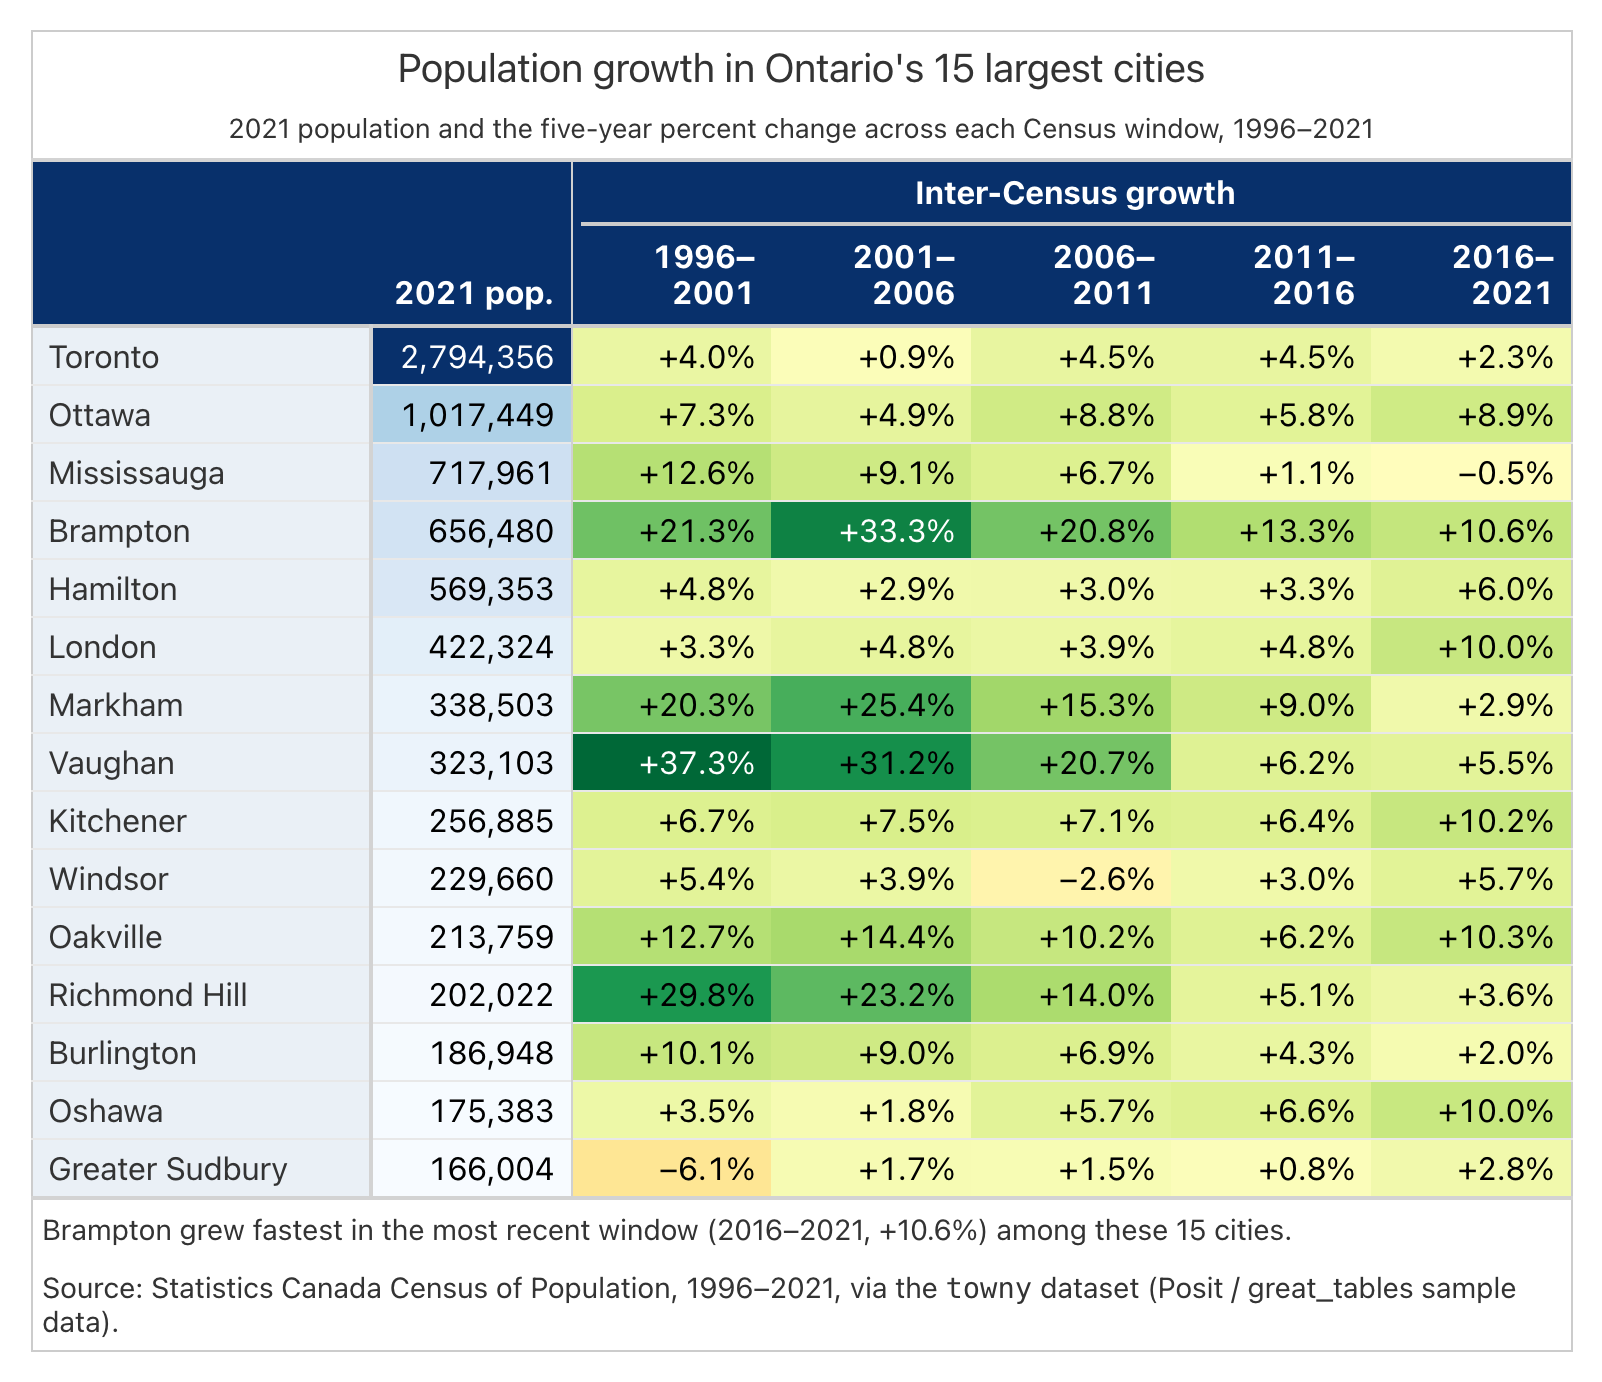
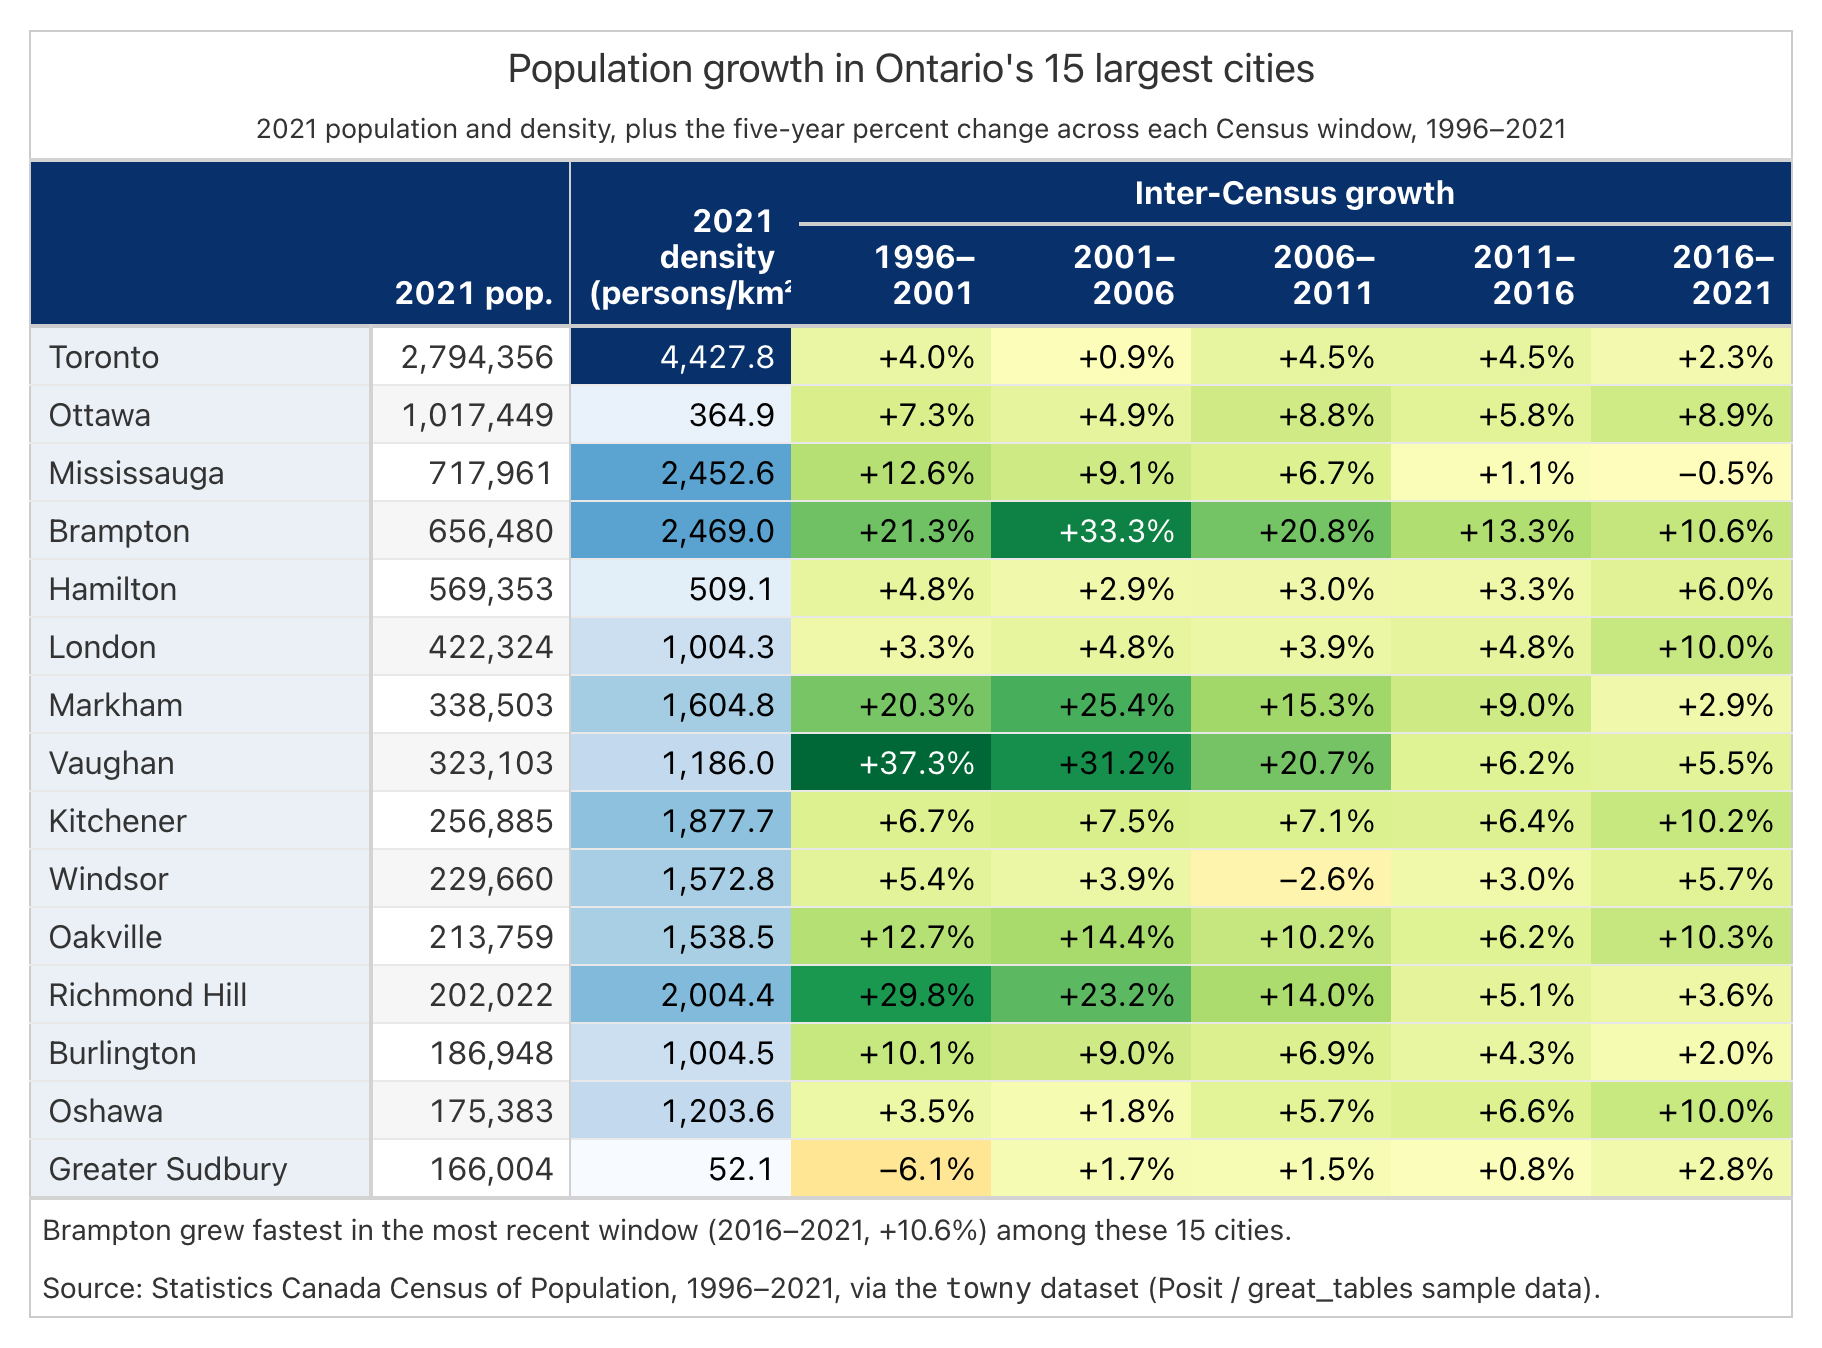
fix(examples): color heatmap by density instead of a skewed raw population
The population-level color fill in heatmap.py had the same defect
scientific.py explicitly cites as its reason to skip Big Color entirely:
a linear domain over a magnitude that spans multiple orders of magnitude
paints nearly every cell nearly the same faint shade. For these 15 rows,
raw population_2021 spans 166K-2.8M with Toronto and Ottawa alone
dominating the top of the range, landing 12 of 15 rows in the bottom 20%
of the Blues ramp.

Switch the colored "level" measure to density_2021 (persons/km^2), which
already exists in the towny dataset and is the same density+percent-change
pairing this skill's own small_color.md cites as the canonical example
for this exact dataset (towny_growth_trends ground truth). Density is
normalized by land area, so it isn't dominated by the same outliers: only
3 of 15 rows land in the bottom 20% of its domain, producing a heatmap
that actually differentiates rows.

Raw 2021 population stays displayed (it still drives the top-15
selection and is useful context) but is now a genuinely plain,
uncolored column. Since it's no longer color-filled, the "no row
striping" rationale (100% of body columns already color-filled) no
longer holds, so striping is turned back on to match every other table
in this skill and give the plain population column a visible stripe.

diff --git a/.claude/skills/great-tables-ci/assets/examples/heatmap/heatmap.py b/.claude/skills/great-tables-ci/assets/examples/heatmap/heatmap.py
@@ -3,8 +3,10 @@
 Data: data/towny.csv  (414 Ontario municipalities; population and
       growth across five Census windows from 1996 to 2021)
 Story: 25 years of growth in Ontario's 15 largest cities — population
-       level and each five-year percent change both color-encoded, as
-       two distinct dimensions of "growth."
+       density and each five-year percent change both color-encoded, as
+       two distinct dimensions of "growth." Raw 2021 population stays a
+       plain column: it drives the top-15 selection and is shown for
+       context, but it is NOT the colored measure (see note below).
 """
 import numpy as np
 import pandas as pd
@@ -23,7 +25,7 @@ change_cols = [
 # reader's ability to scan a small grid; 414 rows is unreadable.
 top = (
     df.nlargest(15, "population_2021")
-      .loc[:, ["name", "population_2021"] + change_cols]
+      .loc[:, ["name", "population_2021", "density_2021"] + change_cols]
       .reset_index(drop=True)
 )
 
@@ -34,11 +36,20 @@ chg_lo = float(np.nanmin(top[change_cols].to_numpy()))
 chg_hi = float(np.nanmax(top[change_cols].to_numpy()))
 abs_max = max(abs(chg_lo), abs(chg_hi))
 
-# Population (a level) and the five window changes (a rate of change) are two
-# genuinely distinct dimensions of "growth" — both earn a fill, the same
-# pairing used for density+percent-change elsewhere in this skill.
-pop_lo = float(top["population_2021"].min())
-pop_hi = float(top["population_2021"].max())
+# Density (a level, normalized by land area) and the five window changes (a
+# rate of change) are two genuinely distinct dimensions of "growth" — both
+# earn a fill, the same density+percent-change pairing used in this skill's
+# towny_growth_trends ground truth. Raw population COUNT is intentionally
+# NOT the colored level here: for these 15 rows it spans 166K-2.8M with
+# Toronto and Ottawa alone occupying the top of that range, so a linear
+# domain over the raw count would land 12 of 15 rows in the bottom 20% of
+# the color ramp — the same "nearly every cell nearly the same faint shade"
+# failure `scientific` cites as its reason to skip Big Color altogether.
+# Density is normalized by land area, so it isn't dominated by the same one
+# or two outliers (only 3 of 15 land in the bottom 20% of its domain) and
+# produces a heatmap that actually differentiates rows.
+dens_lo = float(top["density_2021"].min())
+dens_hi = float(top["density_2021"].max())
 
 fastest_city = top.loc[top["pop_change_2016_2021_pct"].idxmax(), "name"]
 fastest_pct = top["pop_change_2016_2021_pct"].max()
@@ -47,10 +58,11 @@ gt = (
     GT(top, rowname_col="name")
     .tab_header(
         title="Population growth in Ontario's 15 largest cities",
-        subtitle="2021 population and the five-year percent change across each Census window, 1996–2021",
+        subtitle="2021 population and density, plus the five-year percent change across each Census window, 1996–2021",
     )
     .cols_label(
         population_2021="2021 pop.",
+        density_2021=html("2021 density<br>(persons/km²)"),
         pop_change_1996_2001_pct="1996–2001",
         pop_change_2001_2006_pct="2001–2006",
         pop_change_2006_2011_pct="2006–2011",
@@ -59,14 +71,16 @@ gt = (
     )
     .tab_spanner(label="Inter-Census growth", columns=change_cols)
     .fmt_integer(columns=["population_2021"])
+    .fmt_number(columns=["density_2021"], decimals=1)
     # force_sign on the percent labels — the +/− gives a redundant directional
     # signal so the table remains usable for color-blind readers.
     .fmt_percent(columns=change_cols, decimals=1, force_sign=True)
-    # Population: neutral magnitude → sequential Blues (fixed lookup).
+    # Density: neutral magnitude → sequential Blues (fixed lookup). Colored
+    # in place of raw population count — see the domain-skew note above.
     .data_color(
-        columns=["population_2021"],
+        columns=["density_2021"],
         palette="Blues",
-        domain=[pop_lo, pop_hi],
+        domain=[dens_lo, dens_hi],
         na_color="#808080",
         truncate=False,
         autocolor_text=True,
@@ -82,9 +96,9 @@ gt = (
         autocolor_text=True,
     )
     .cols_align(align="left", columns=["name"])
-    .cols_align(align="right", columns=["population_2021"] + change_cols)
+    .cols_align(align="right", columns=["population_2021", "density_2021"] + change_cols)
     # Column-group divider at the seam between the plain population column
-    # and the growth spanner block.
+    # and the colored block (density + the growth spanner).
     .tab_style(style=style.borders(sides="right", color="#D0D0D0", weight="1px"), locations=loc.body(columns="population_2021"))
     .tab_style(style=style.borders(sides="right", color="#D0D0D0", weight="1px"), locations=loc.column_labels(columns="population_2021"))
     # Heading band — fixed branding navy, bold labels, white text, every table.
@@ -97,7 +111,13 @@ gt = (
     .tab_style(style=style.text(color="white"), locations=loc.column_labels())
     # Stub tint — fixed branding hex, unconditional whenever a stub exists.
     .tab_style(style=style.fill(color="#EAF0F6"), locations=loc.stub())
+    # Row striping — default on every table. Density and the five growth
+    # columns are fully color-filled, but population_2021 is a genuine plain
+    # column now (it lost its fill in favor of density, see the domain-skew
+    # note above), so a stripe has a real plain cell to show through on.
+    .opt_row_striping()
     .tab_options(
+        row_striping_background_color="#F6F6F6",
         table_body_hlines_style="solid",
         table_body_hlines_color="#E8E8E8",
         table_body_hlines_width="1px",
@@ -106,11 +126,8 @@ gt = (
         table_border_left_style="solid", table_border_left_color="#CCCCCC", table_border_left_width="1px",
         table_border_right_style="solid", table_border_right_color="#CCCCCC", table_border_right_width="1px",
     )
-    # No row striping: population and all five growth columns are fully
-    # color-filled, so 100% of the non-stub body is already covered — a
-    # stripe has no plain cell left to show through on.
     .cols_width(cases={
-        "name": "170px", "population_2021": "100px",
+        "name": "170px", "population_2021": "100px", "density_2021": "110px",
         **{c: "100px" for c in change_cols},
     })
     .tab_options(

diff --git a/.claude/skills/great-tables/assets/examples/heatmap/heatmap.py b/.claude/skills/great-tables/assets/examples/heatmap/heatmap.py
@@ -3,8 +3,10 @@
 Data: data/towny.csv  (414 Ontario municipalities; population and
       growth across five Census windows from 1996 to 2021)
 Story: 25 years of growth in Ontario's 15 largest cities — population
-       level and each five-year percent change both color-encoded, as
-       two distinct dimensions of "growth."
+       density and each five-year percent change both color-encoded, as
+       two distinct dimensions of "growth." Raw 2021 population stays a
+       plain column: it drives the top-15 selection and is shown for
+       context, but it is NOT the colored measure (see note below).
 """
 import numpy as np
 import pandas as pd
@@ -23,7 +25,7 @@ change_cols = [
 # reader's ability to scan a small grid; 414 rows is unreadable.
 top = (
     df.nlargest(15, "population_2021")
-      .loc[:, ["name", "population_2021"] + change_cols]
+      .loc[:, ["name", "population_2021", "density_2021"] + change_cols]
       .reset_index(drop=True)
 )
 
@@ -34,11 +36,20 @@ chg_lo = float(np.nanmin(top[change_cols].to_numpy()))
 chg_hi = float(np.nanmax(top[change_cols].to_numpy()))
 abs_max = max(abs(chg_lo), abs(chg_hi))
 
-# Population (a level) and the five window changes (a rate of change) are two
-# genuinely distinct dimensions of "growth" — both earn a fill, the same
-# pairing used for density+percent-change elsewhere in this skill.
-pop_lo = float(top["population_2021"].min())
-pop_hi = float(top["population_2021"].max())
+# Density (a level, normalized by land area) and the five window changes (a
+# rate of change) are two genuinely distinct dimensions of "growth" — both
+# earn a fill, the same density+percent-change pairing used in this skill's
+# towny_growth_trends ground truth. Raw population COUNT is intentionally
+# NOT the colored level here: for these 15 rows it spans 166K-2.8M with
+# Toronto and Ottawa alone occupying the top of that range, so a linear
+# domain over the raw count would land 12 of 15 rows in the bottom 20% of
+# the color ramp — the same "nearly every cell nearly the same faint shade"
+# failure `scientific` cites as its reason to skip Big Color altogether.
+# Density is normalized by land area, so it isn't dominated by the same one
+# or two outliers (only 3 of 15 land in the bottom 20% of its domain) and
+# produces a heatmap that actually differentiates rows.
+dens_lo = float(top["density_2021"].min())
+dens_hi = float(top["density_2021"].max())
 
 fastest_city = top.loc[top["pop_change_2016_2021_pct"].idxmax(), "name"]
 fastest_pct = top["pop_change_2016_2021_pct"].max()
@@ -47,10 +58,11 @@ gt = (
     GT(top, rowname_col="name")
     .tab_header(
         title="Population growth in Ontario's 15 largest cities",
-        subtitle="2021 population and the five-year percent change across each Census window, 1996–2021",
+        subtitle="2021 population and density, plus the five-year percent change across each Census window, 1996–2021",
     )
     .cols_label(
         population_2021="2021 pop.",
+        density_2021=html("2021 density<br>(persons/km²)"),
         pop_change_1996_2001_pct="1996–2001",
         pop_change_2001_2006_pct="2001–2006",
         pop_change_2006_2011_pct="2006–2011",
@@ -59,14 +71,16 @@ gt = (
     )
     .tab_spanner(label="Inter-Census growth", columns=change_cols)
     .fmt_integer(columns=["population_2021"])
+    .fmt_number(columns=["density_2021"], decimals=1)
     # force_sign on the percent labels — the +/− gives a redundant directional
     # signal so the table remains usable for color-blind readers.
     .fmt_percent(columns=change_cols, decimals=1, force_sign=True)
-    # Population: neutral magnitude → sequential Blues (fixed lookup).
+    # Density: neutral magnitude → sequential Blues (fixed lookup). Colored
+    # in place of raw population count — see the domain-skew note above.
     .data_color(
-        columns=["population_2021"],
+        columns=["density_2021"],
         palette="Blues",
-        domain=[pop_lo, pop_hi],
+        domain=[dens_lo, dens_hi],
         na_color="#808080",
         truncate=False,
         autocolor_text=True,
@@ -82,9 +96,9 @@ gt = (
         autocolor_text=True,
     )
     .cols_align(align="left", columns=["name"])
-    .cols_align(align="right", columns=["population_2021"] + change_cols)
+    .cols_align(align="right", columns=["population_2021", "density_2021"] + change_cols)
     # Column-group divider at the seam between the plain population column
-    # and the growth spanner block.
+    # and the colored block (density + the growth spanner).
     .tab_style(style=style.borders(sides="right", color="#D0D0D0", weight="1px"), locations=loc.body(columns="population_2021"))
     .tab_style(style=style.borders(sides="right", color="#D0D0D0", weight="1px"), locations=loc.column_labels(columns="population_2021"))
     # Heading band — fixed branding navy, bold labels, white text, every table.
@@ -97,7 +111,13 @@ gt = (
     .tab_style(style=style.text(color="white"), locations=loc.column_labels())
     # Stub tint — fixed branding hex, unconditional whenever a stub exists.
     .tab_style(style=style.fill(color="#EAF0F6"), locations=loc.stub())
+    # Row striping — default on every table. Density and the five growth
+    # columns are fully color-filled, but population_2021 is a genuine plain
+    # column now (it lost its fill in favor of density, see the domain-skew
+    # note above), so a stripe has a real plain cell to show through on.
+    .opt_row_striping()
     .tab_options(
+        row_striping_background_color="#F6F6F6",
         table_body_hlines_style="solid",
         table_body_hlines_color="#E8E8E8",
         table_body_hlines_width="1px",
@@ -106,11 +126,8 @@ gt = (
         table_border_left_style="solid", table_border_left_color="#CCCCCC", table_border_left_width="1px",
         table_border_right_style="solid", table_border_right_color="#CCCCCC", table_border_right_width="1px",
     )
-    # No row striping: population and all five growth columns are fully
-    # color-filled, so 100% of the non-stub body is already covered — a
-    # stripe has no plain cell left to show through on.
     .cols_width(cases={
-        "name": "170px", "population_2021": "100px",
+        "name": "170px", "population_2021": "100px", "density_2021": "110px",
         **{c: "100px" for c in change_cols},
     })
     .tab_options(
